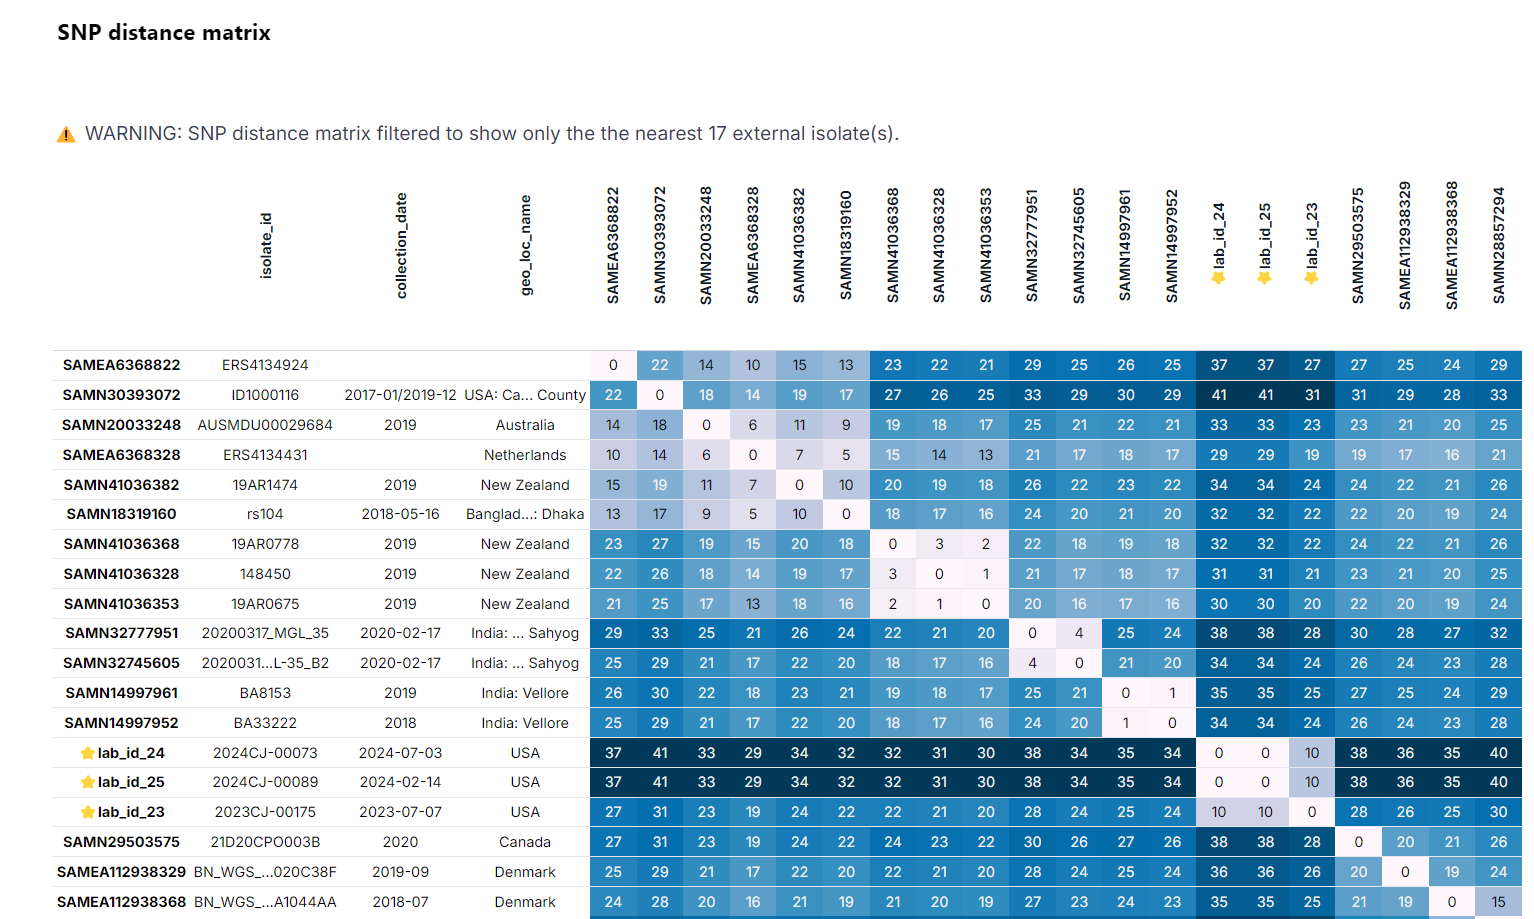
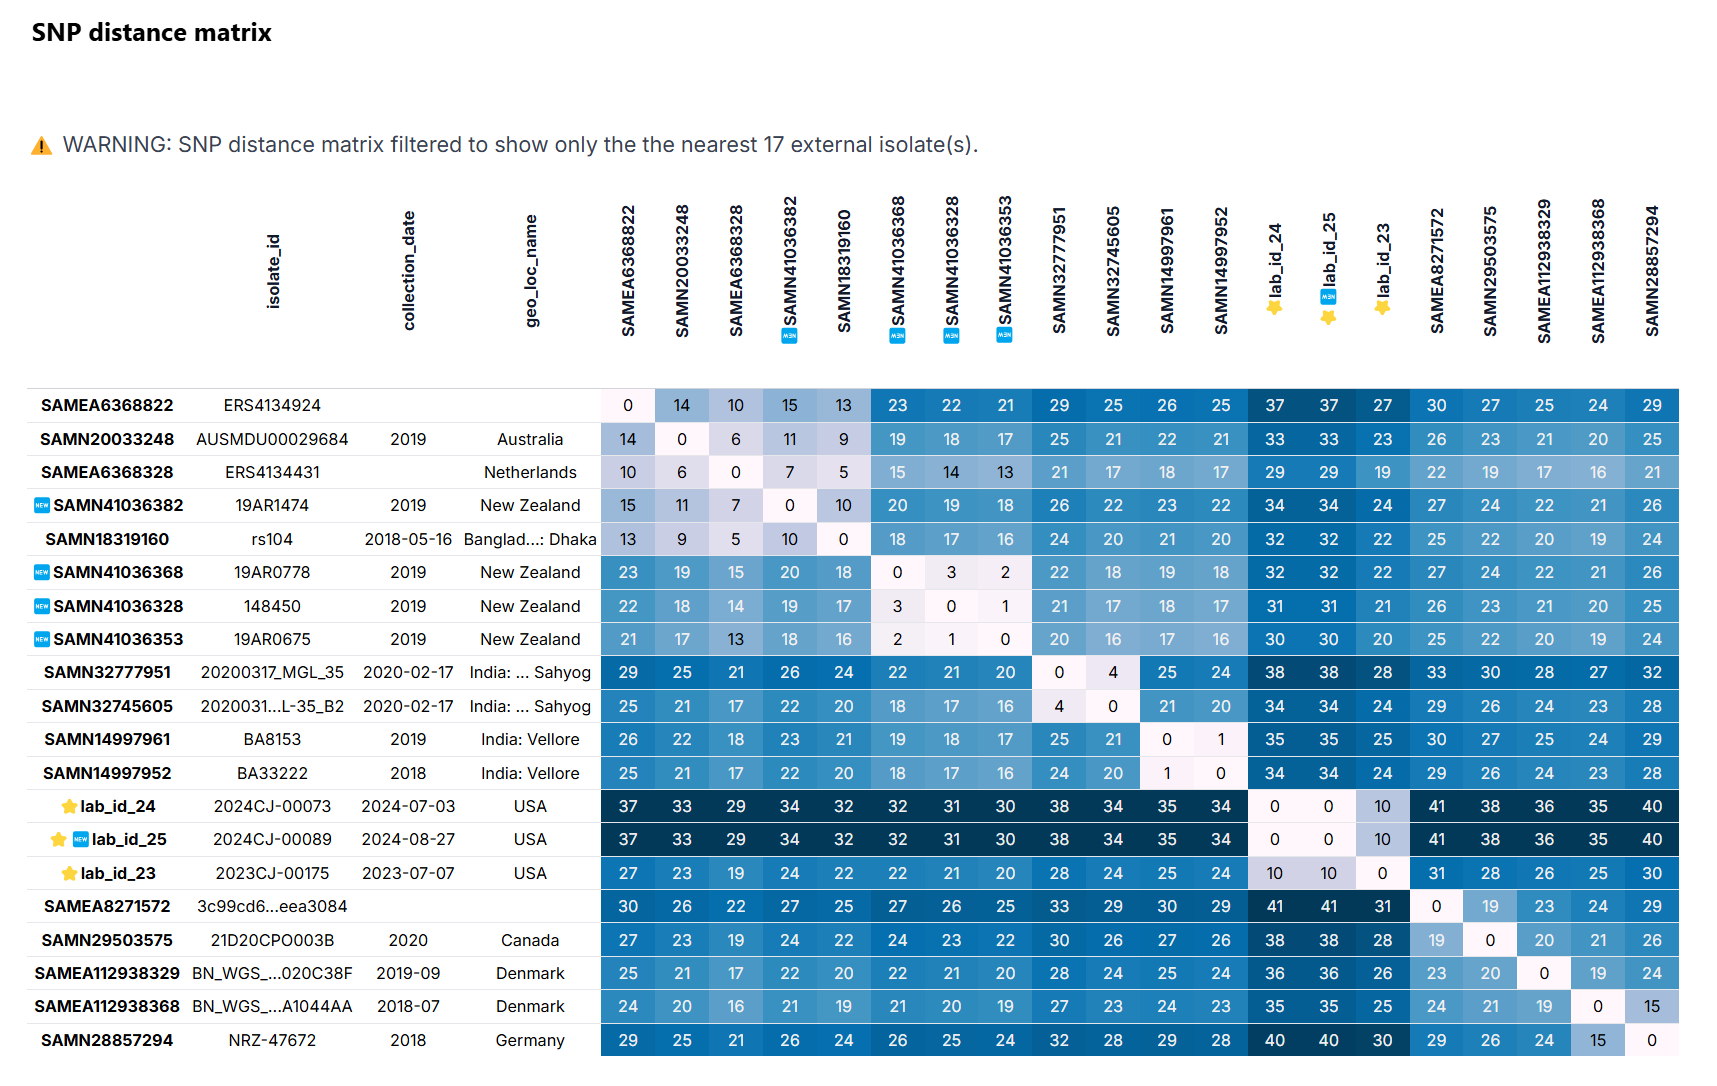
Update docs

diff --git a/README.md b/README.md
@@ -1,73 +1,99 @@
 # ncbi-cluster-tracker
 
-> ⚠ This tool is in early stages of development
-
-ncbi-cluster-tracker is a tool for creating static, shareable HTML reports for tracking SNP clusters within the [NCBI Pathogen Detection](https://www.ncbi.nlm.nih.gov/pathogens/) system. Given an input sample sheet CSV containing BioSample IDs for isolates of interest (referred to as "internal isolates"), the tool creates a report with a high-level overview of all of the clusters associated with the internal isolates. For each cluster the output report links to the corresponding NCBI Pathogen Detection tree and displays addition visualizations such as a pairwise SNP distance matrix heatmap. Any additional metadata or alternate IDs provided in the sample sheet are used to further annotate the internal isolates within the report.
+**ncbi-cluster-tracker** is a tool for creating static, shareable HTML reports for tracking SNP clusters within the [NCBI Pathogen Detection](https://www.ncbi.nlm.nih.gov/pathogens/) system. Given an input sample sheet CSV containing BioSample IDs for isolates of interest (referred to as "internal isolates"), the tool creates a report with a high-level overview of all of the clusters associated with the internal isolates. For each cluster the output report links to the corresponding NCBI Pathogen Detection tree and displays additional visualizations such as a pairwise SNP distance matrix heatmap. Any additional metadata or alternate IDs provided in the sample sheet are used to further annotate the internal isolates within the report. If provided a directory to previous outputs, ncbi-cluster-tracker will compare to the previous report and indicate any new isolates, new clusters, and changes to isolate counts for existing clusters.
 
 ### Clusters tab
-The Clusters tab contains a table of clusters and their isolate counts. Columns in the table can be sorted and filtered. A Gantt chart is displayed below the table showing the timeline of when the first isolate appeared in each cluster and when the most recent isolate was added. 
+The Clusters tab contains a table of clusters and their associated isolate counts and any changes to isolate counts from the previous report. Columns in the table can be sorted and filtered. A timeline chart is displayed below the table showing when each isolate was added to each cluster. Details about a particular isolate can be viewed by hovering over a point.
 
 ![Clusters tab](assets/clusters.png)
 
 ### Isolates tab
-The Isolates tab contains a table with details about the internal isolates, such as which cluster (if any) they belong to, their BioSample metadata, and any custom metadata provided in the sample sheet. SQL can be used directly in the report to query this table and the Clusters table.
+The Isolates tab contains a table with details about the internal and external isolates, such as which cluster (if any) they belong to, whether they are new, their BioSample metadata, and any custom metadata provided in the sample sheet. SQL can be used directly in the report to query this table and the Clusters table.
 
 ![Isolates tab](assets/isolates.png)
 
 ### Cluster details tab
-The Cluster details tab indicates the number of internal and external isolates in the cluster and provides a link to the tree in the NCBI Pathogen Detection website. The URL is set to select and highlight the internal isolates by default. A custom labels file is provided to annotate the tree with any alternate sample IDs and other additional metadata.
+The Cluster details tab displays information about each cluster. Clusters can be searched and selected in the dropdown menu. Each page displays the count (and change in count) of internal and external isolates in the cluster and links are provided to the SNP Tree Viewer in the NCBI Pathogen Detection website. A downloadable custom labels file is provided to annotate the tree in the SNP Tree viewer with any alternate sample IDs and other metadata.
 
 ![Cluster details overview](assets/cluster_details_overview.png)
 
-This section of the report shows a SNP distance matrix. Since there is a large number of isolates in this particular example cluster, the matrix is filtered to only show the nearest external isolates.
+This section of the Cluster details page shows a SNP distance matrix. If there are a large number of isolates in the cluster, the matrix is filtered to only show the nearest external isolates.
 
 ![Cluster details SNP distance matrix](assets/cluster_details_matrix.png)
 
-This section of the report also provides a histogram showing the isolate counts over time (by record creation date).
+This section of the Cluster details page displays a histogram showing the isolate counts over time (by record creation date).
 
 ![Cluster details histogram](assets/cluster_details_histogram.png)
 
 ## Requirements
-Currently a Google Cloud Platform account is required to use this tool, since it relies on NCBI's public Google BigQuery [`pdbrowser`](https://www.ncbi.nlm.nih.gov/pathogens/docs/gcp/) dataset to download isolate and cluster metadata.
+There are two options to provide the required cluster metadata and isolate metadata from Pathogen Detection:
+
+ 1. The default option is to use NCBI's public Google BigQuery [`pdbrowser`](https://www.ncbi.nlm.nih.gov/pathogens/docs/gcp/) dataset to automatically download the most recent isolate and cluster metadata. However, this option requires a Google Cloud Platform account and may not reflect the most up-to-date information in the Pathogen Detection system since there is up to a one day delay for data to be published to the BigQuery dataset. 
+2. Alternatively, users can manually provide this data by downloading search results as a TSV or CSV file from the Pathogen Detection Isolates Browser website and passing the file into the program using `--browser-file`. To create this file, copy-and-paste the BioSample IDs from the sample sheet into the [Isolates Browser](https://www.ncbi.nlm.nih.gov/pathogens/) search bar and press Enter. Make sure all columns are displayed (select "Choose columns"), then click the "Download" button to export the Matched Isolates table as a CSV or TSV. This file will contain the isolate metadata for internal isolates and their associated clusters. To get the isolate metadata for external isolates in these clusters, a second search needs to be run. Copy the "SNP cluster" column from the downloaded file and paste into to the search bar along with the existing BioSample IDs from the previous search. Run the search again and download the second TSV or CSV as before, and pass the path to this file to ncbi-cluster-tracker with the `--browser-file` option.
 
 ## Installation
-> ⚠ Currently installation requires cloning the repository, but the plan is for the tool to eventually be installable directly through Conda or pip.
+> ⚠ Currently installation requires cloning the repository, but the plan is for the tool to eventually be installable directly through Conda or as a downloadable Docker image.
 
-1. Clone repository
+1. Clone repository and move into the project directory.
 
 ```
 git clone https://github.com/CDPHE-bioinformatics/ncbi-cluster-tracker.git
+cd ncbi-cluster-tracker
 ```
 
-2. Install dependencies with conda
+2. Install dependencies with Conda and activate the environment.
 
 ```
 conda env create -f environment.yml
 conda activate ncbi-cluster-tracker
 ```
 
-3. Ensure logged in to Google Cloud Platform account
+3. Install the command-line program.
+```
+pip install .
+```
+
+3. Ensure logged in to Google Cloud Platform account (if using BigQuery)
 
 ```
 gcloud auth login
 ```
 
-4. Run with test sample sheet
+4. Run with test data. Make sure the `ncbi-cluster-tracker` Conda environment is activated before running.
 
 ```
-python main.py tests/data/sample_sheet.csv
+ncbi-cluster-tracker tests/data/sample_sheet.csv \
+    --compare-dir tests/data/20240826/ \
+    --browser-file tests/data/pdbrowser_20250415.tsv \
+    --out-dir tests/data/outputs/ \
+    --retry
 ```
 
 ## Usage
 
 ```
-usage: main.py [-h] [--use-local | --no-use-local] sample_sheet
+$ ncbi-cluster-tracker --help
+usage: ncbi-cluster-tracker [-h] [--out-dir OUT_DIR] [--retry | --no-retry] [--browser-file BROWSER_FILE]
+                            [--compare-dir COMPARE_DIR | --no-compare]
+                            sample_sheet
 
 positional arguments:
-  sample_sheet          CSV sample sheet with required "biosample" column and any additional metadata columns. Use "id" column for alternate isolate IDs
+  sample_sheet          Path to sample sheet CSV with required "biosample" column and any additional metadata columns.
+                        Use "id" column for alternate isolate IDs.
 
 options:
   -h, --help            show this help message and exit
-  --use-local, --no-use-local
-                        Do not query BigQuery or NCBI, assumes data has already been downloaded
+  --out-dir OUT_DIR, -o OUT_DIR
+                        Path to directory to store outputs. Defaults to "./outputs/" if not specified.
+  --retry, --no-retry   Do not query BigQuery or NCBI, assumes data has already been downloaded to --out-dir or
+                        directory with most recent timestamp.
+  --browser-file BROWSER_FILE
+                        Path to isolates TSV or CSV downloaded from the Pathogen Detection Isolates Browser with
+                        information for all internal and external isolates. When specified, data in file will be used
+                        instead of querying the BigQuery dataset.
+  --compare-dir COMPARE_DIR
+                        Path to previous output directory to detect and report new isolates. Defaults to directory
+                        inside --out-dir with most recent timestamp if not specified.
+  --no-compare          Do not compare to most recent output directory, all clusters and isolates will be considered
+                        "new".
 ```
